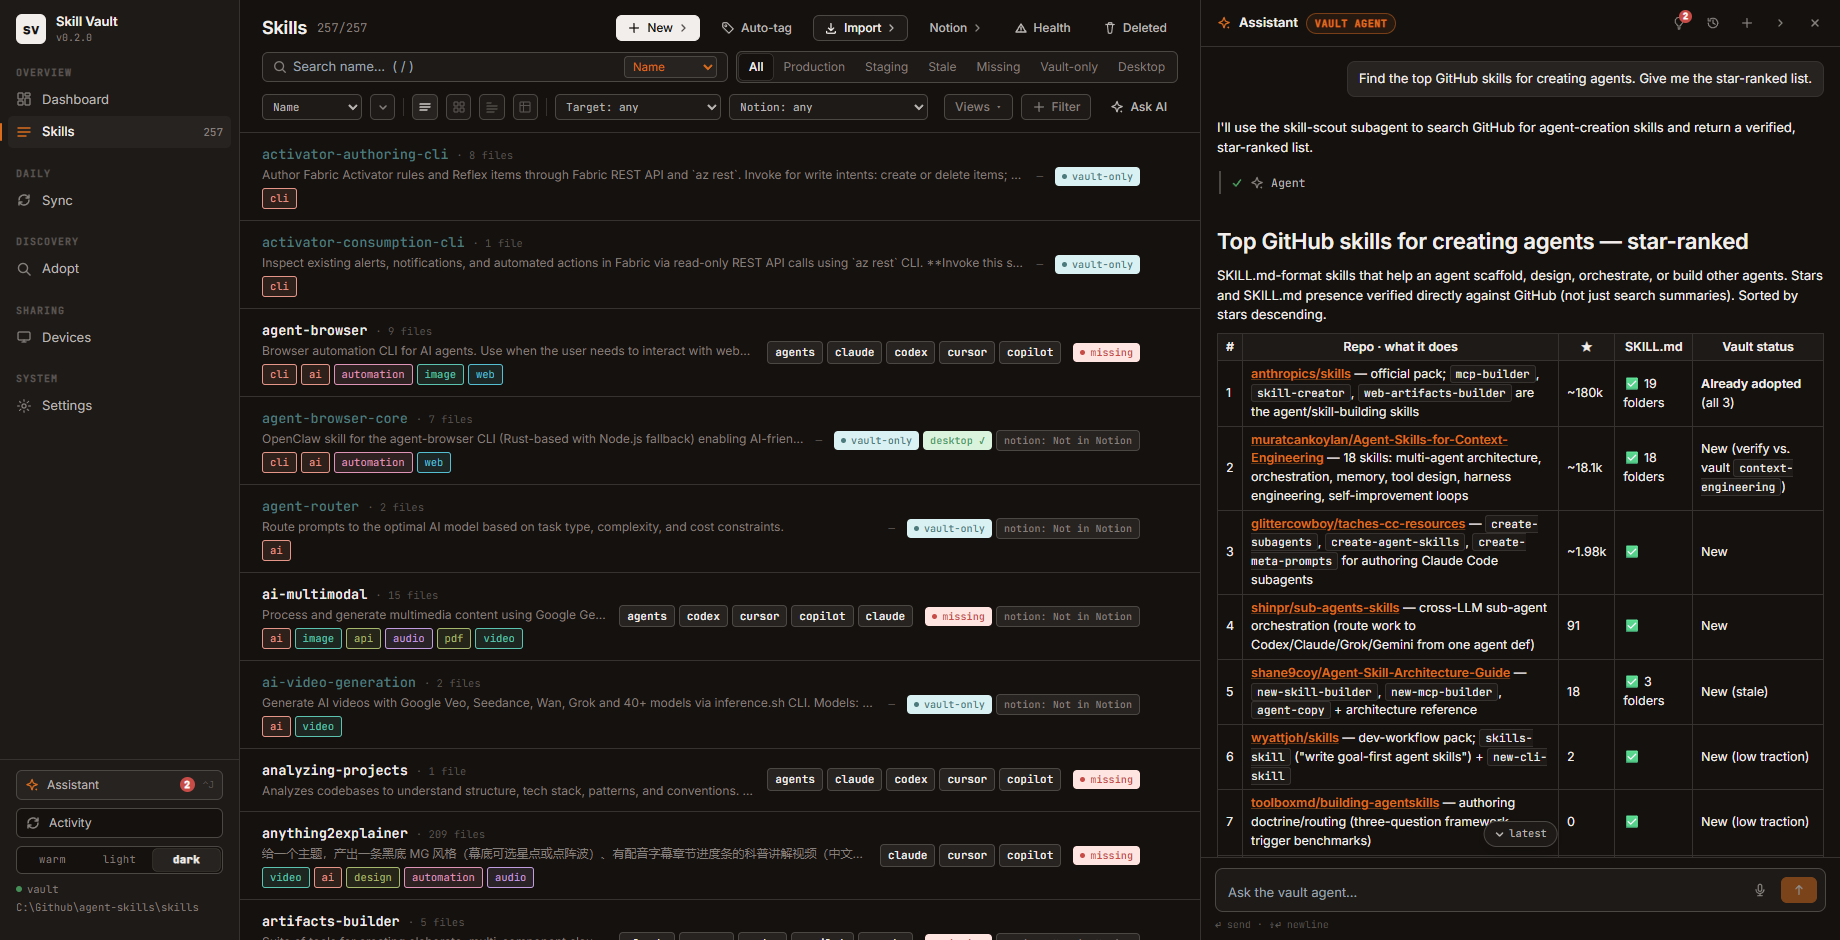
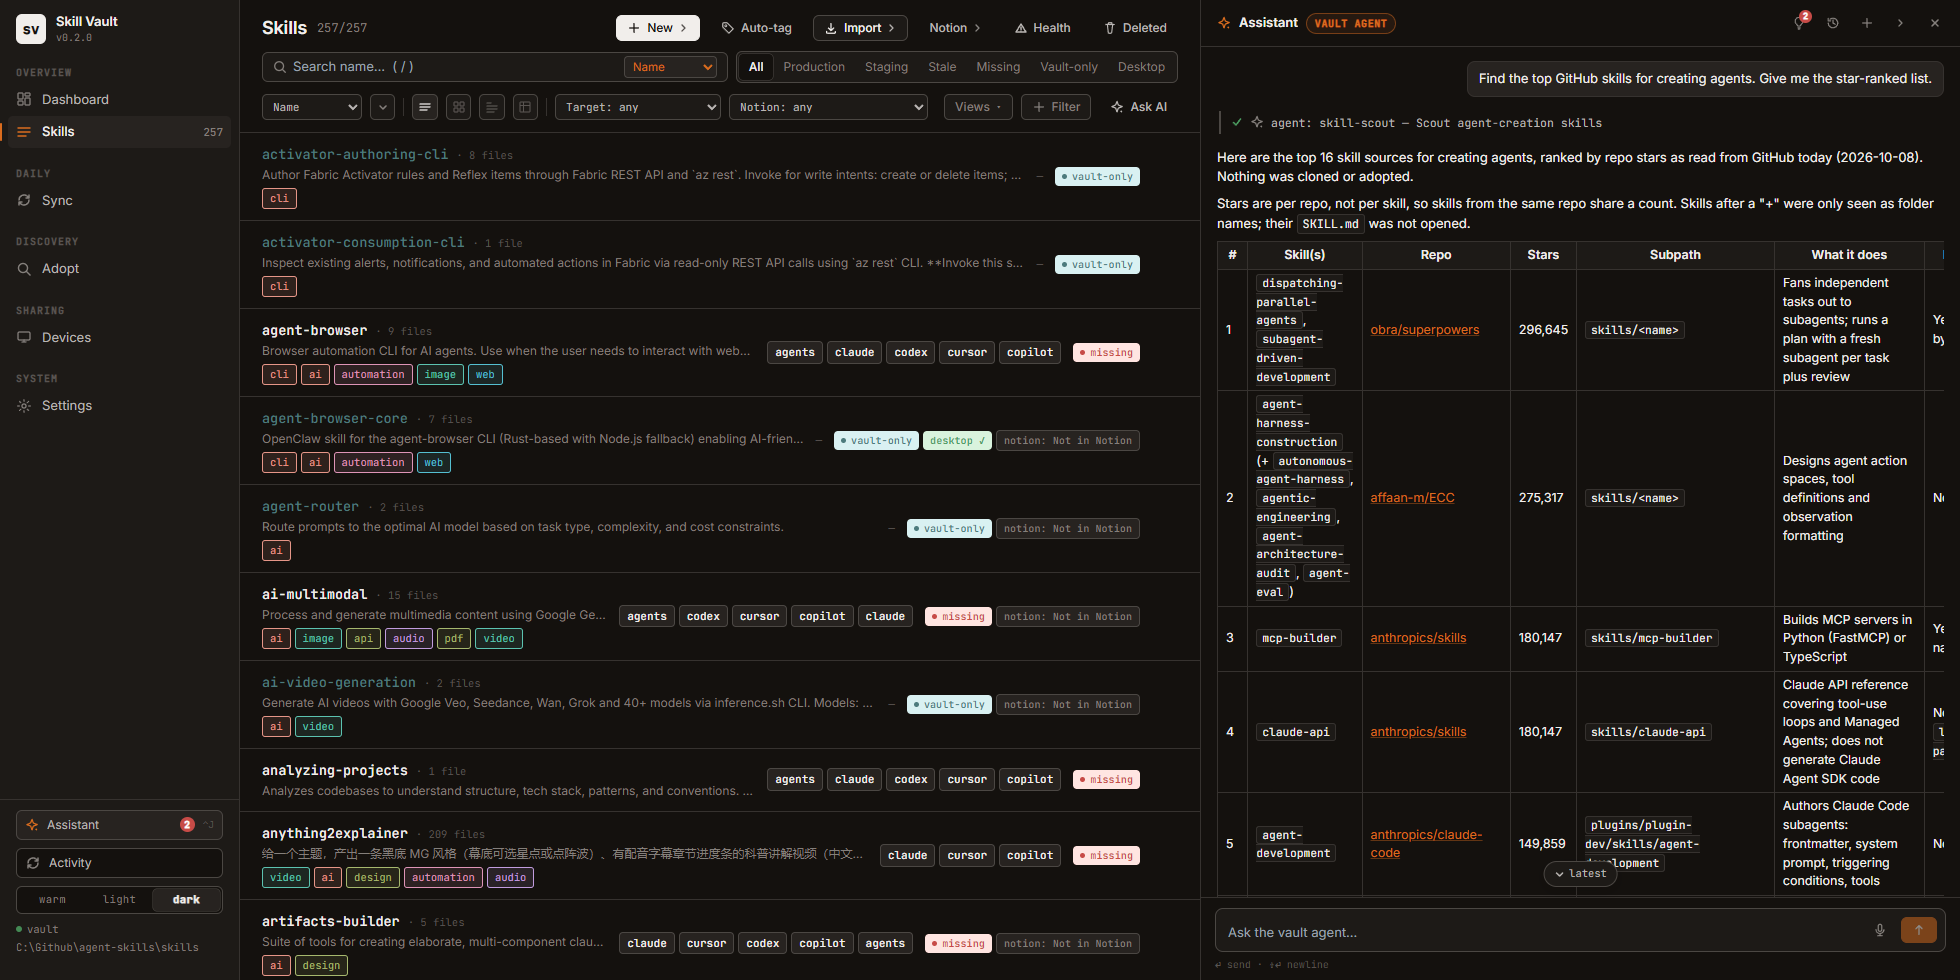
docs: retake assistant discovery and timeline screenshots
Both shots now come from live runs on the current build, so the timeline
shows the specialist and skill names. Captions updated to match. Wide
tables in assistant replies now scroll inside the reply instead of
running off the pane.

diff --git a/app/client/src/index.css b/app/client/src/index.css
@@ -143,6 +143,8 @@
 .sv-markdown--chat pre { font-size: 11.5px; }
 .sv-markdown--chat code { font-size: 11.5px; }
 .sv-markdown--chat table { font-size: 12px; }
+/* A wide table must scroll inside the reply, not run off the panel edge. */
+.sv-markdown--chat table { display: block; max-width: 100%; overflow-x: auto; }
 
 /* ── Markdown rendered preview (Phase 2) ─────────────────────────── */
 

diff --git a/README.md b/README.md
@@ -40,15 +40,16 @@ Notion drift, integrity issues) computed from the app's own signals at zero AI
 cost and kept fresh by a background source sweep. Every card has a **✦ Fix with
 AI** button, and every failure row and skill view has an **Ask AI** entry point.
 
-![The assistant returning a star-ranked table of GitHub skills, with the ones already in the vault marked](docs/images/assistant-discovery.png)
+![The skill-scout specialist returning a star-ranked table of GitHub skills](docs/images/assistant-discovery.png)
 
 Ask in plain language. *"Find the top GitHub skills for creating agents"* returns
 a verified, star-ranked table with the skills you already have marked, then
 offers to adopt the rest. *"This skill says gone upstream, fix it"* traces the
 source through git history and the web, repairs the origin, and applies the
-update while you watch the tool timeline:
+update. The tool timeline shows each step as it happens, here on a read-only
+update check:
 
-![A repair in progress, showing the tool timeline](docs/images/assistant-timeline.png)
+![An update check: the skills it loaded, the tools it ran, and its findings](docs/images/assistant-timeline.png)
 
 One lead agent runs every chat, loads the right one of ten bundled skills for the
 job, and hands heavy research or parallel repairs to five specialist subagents.

diff --git a/docs/assistant.md b/docs/assistant.md
@@ -7,7 +7,7 @@ diagnose failed operations. It runs on your local [Claude Code](https://claude.c
 CLI, so it uses your existing Claude subscription and nothing leaves your machine
 except the model calls Claude Code itself makes.
 
-![The assistant finding star-ranked GitHub skills and marking the ones already in the vault](images/assistant-discovery.png)
+![The skill-scout specialist returning a star-ranked table of GitHub skills](images/assistant-discovery.png)
 
 - [Requirements](#requirements)
 - [Opening the assistant](#opening-the-assistant)
@@ -177,7 +177,9 @@ is doing (`Searching web: …`, `Running: git log…`, `vault: set_origin`,
 `agent: repo-hunter`) — click a line for its input/output. **Stop** kills the
 turn immediately. Each reply ends with its cost and duration.
 
-![A repair in progress: context chips, the request, and the tool timeline between the assistant's notes](images/assistant-timeline.png)
+![An update check: the skills it loaded, the tools it ran, and its findings](images/assistant-timeline.png)
+
+A table too wide for the pane scrolls sideways inside the reply.
 
 The history button lists recent chats; conversations survive app restarts and
 resume with full context. Multiple chats can exist; one turn runs per chat

diff --git a/docs/SummaryOfChanges.md b/docs/SummaryOfChanges.md
@@ -7,7 +7,9 @@ Running log of change sets, newest first. Detailed per-release notes live in
 
 ### Changes Made
 - Four screenshots of the assistant added (For you suggestions, GitHub skill
-  discovery, a repair with its tool timeline, a skill-scoped chat).
+  discovery, an update check with its tool timeline, a skill-scoped chat).
+- Fixed: a table wider than the chat pane ran off its edge; it now scrolls
+  sideways inside the reply.
 - README assistant section rewritten as a showcase with three of the shots.
 - `docs/assistant.md` gained a "Using it: what to ask" section (task table,
   how decisions are handed back, skill-scoped chats) and inline screenshots;

diff --git a/docs/changelog.md b/docs/changelog.md
@@ -36,6 +36,8 @@ semver; the project is pre-1.0, so minor versions carry feature batches.
   file preview) now show their markers and indentation.
 - Assistant timeline labels on newer Claude Code CLIs: delegations read
   `agent: <name> — <task>` and skill loads read `Loading skill: <name>`.
+- A table wider than the assistant pane scrolls inside the reply instead of
+  running off the edge.
 
 ### Changed
 - **Assistant bundle v2.0.0** — rebuilt around one comprehensive

diff --git a/app/CHANGELOG.md b/app/CHANGELOG.md
@@ -12,6 +12,8 @@ follows [Keep a Changelog](https://keepachangelog.com); versions use semver
 - Assistant timeline labels on newer Claude Code CLIs: `agent: <name> — <task>`
   for delegations (tool named `Agent`, namespaced agent names) and
   `Loading skill: <name>` for skill loads.
+- Wide tables in assistant replies scroll sideways instead of overflowing
+  the pane.
 
 ### Changed
 - **Assistant bundle v2.0.0** - one comprehensive `vault-assistant` lead
